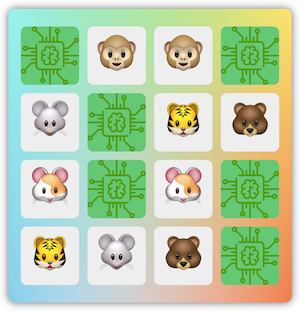
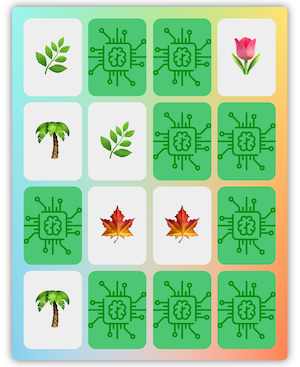
Update README.md

diff --git a/README.md b/README.md
@@ -6,7 +6,7 @@ For more information see this [article](https://en.wikipedia.org/wiki/Concentrat
 
 ## How the Game Works
 
-The game board consists of sixteen “cards” arranged in a grid. The deck is made up of eight different pairs of cards, each with different symbols on one side. The game supports three different sets of symbols — themes: _emoji_, _flora_, _animals_.
+The game board consists of sixteen “cards” arranged in a grid. The deck is made up of eight different pairs of cards, each with different symbols on one side. Out of the box, the game supports three different sets of symbols — built-in themes: _emoji_, _flora_, _animals_.
 
 The cards are arranged randomly on the grid with the symbol face down.
 
@@ -16,7 +16,7 @@ The gameplay rules are very simple: flip over two hidden cards at a time to loca
 
 ## Interface
 
-![Game Interface](screenshots/interface.png)
+![Game Interface](screenshots/interface-2.png)
 
 ### Game State Panel
 
@@ -33,6 +33,11 @@ Parts of the _State Panel_ (left to right):
 
 ![Game Board](screenshots/board.png)
 
+### Themes
+
+You can **add** your own themes, **export** and share them with your friends, or **import** someone else's themes.
+
+![Themes](screenshots/themes.png)
 ### Attempts Results Table
 
 The game stores the results of a user's attempts using browser's local storage.
